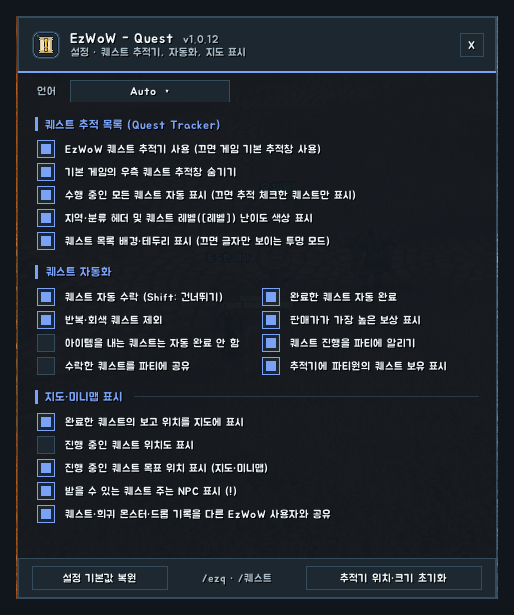
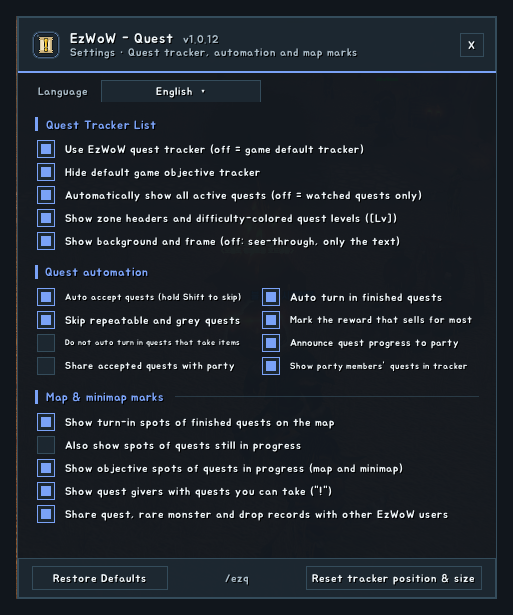
영어 설명용 게임 화면 추가

diff --git a/docs/curseforge_description.md b/docs/curseforge_description.md
@@ -13,7 +13,7 @@ All quest features in one addon for WoW Forever: a scrollable quest tracker that
 
 ![Settings window](https://raw.githubusercontent.com/qqhrqqhr2/EzWoW-Quest/master/docs/images/settings_en.png)
 
-*In-game screenshots (WoW Forever, Korean client). Character and player names and chat text are blurred.*
+*In-game screenshots with the addon set to English. The game client is Korean, so game text such as zone, item and spell names stays Korean. Character and player names and chat text are blurred.*
 
 ## Features
 

diff --git a/README.md b/README.md
@@ -195,7 +195,7 @@ All quest features in one addon.
 
 ![Settings window](docs/images/settings_en.png)
 
-> In-game screenshots (WoW Forever, Korean client). Character and player names and chat text are blurred.
+> In-game screenshots with the addon set to English. The game client is Korean, so game text such as zone, item and spell names stays Korean. Character and player names and chat text are blurred.
 
 ### Installation
 
